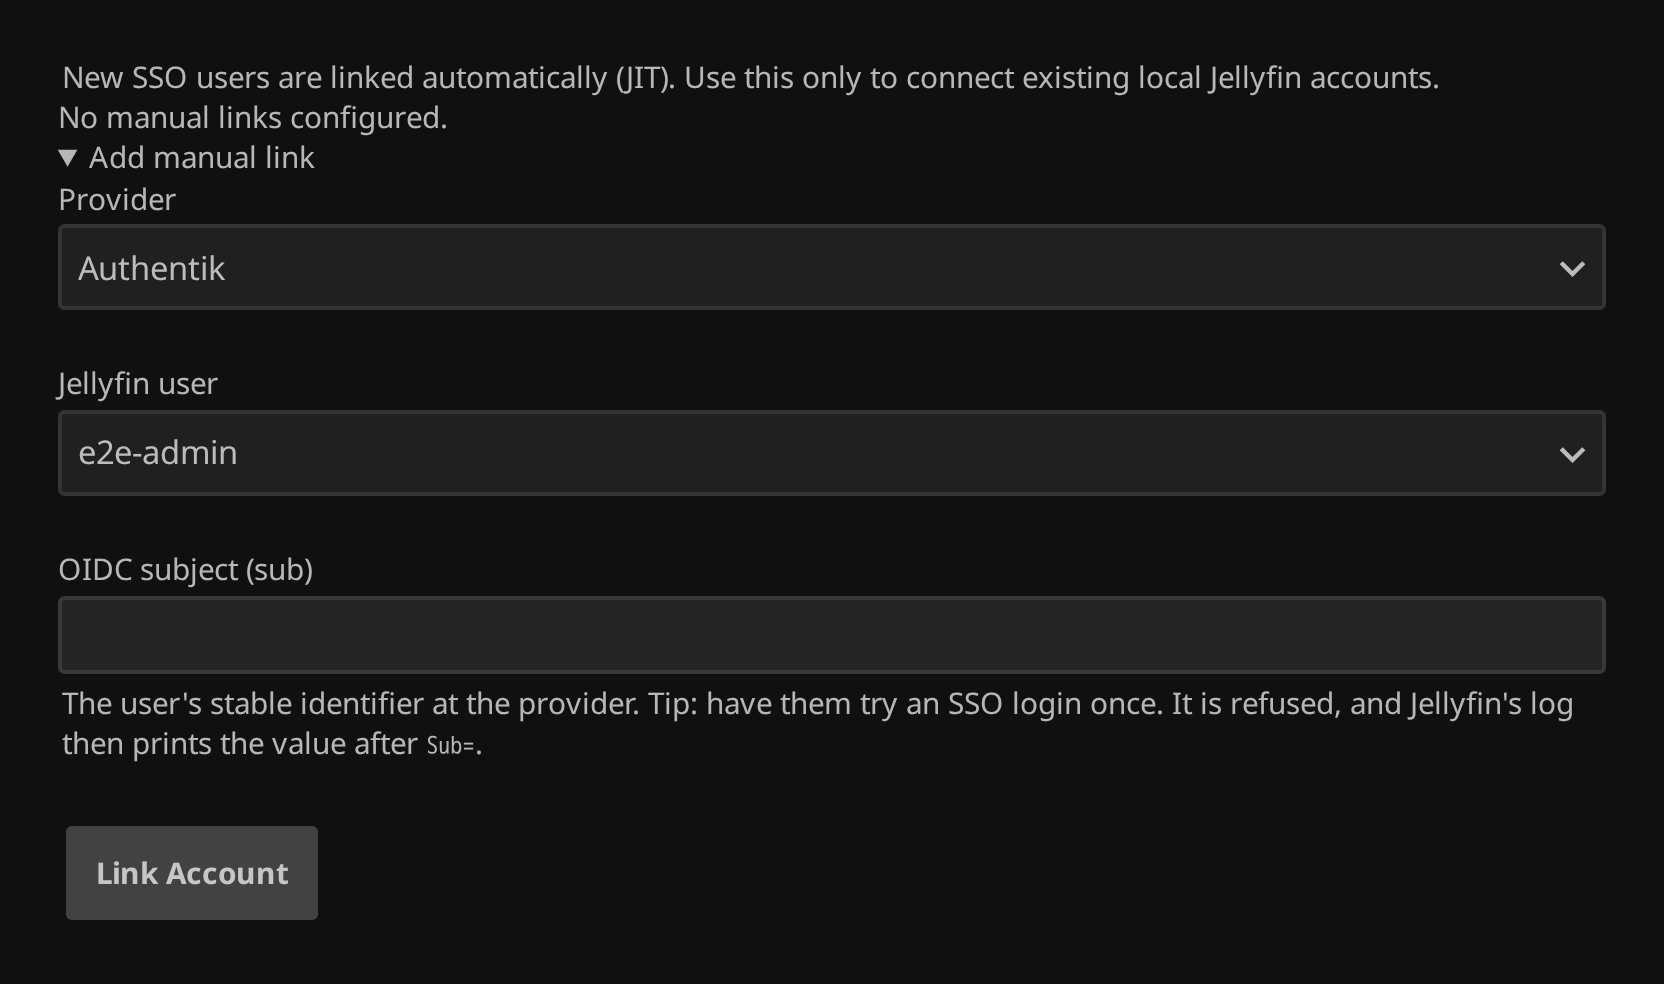
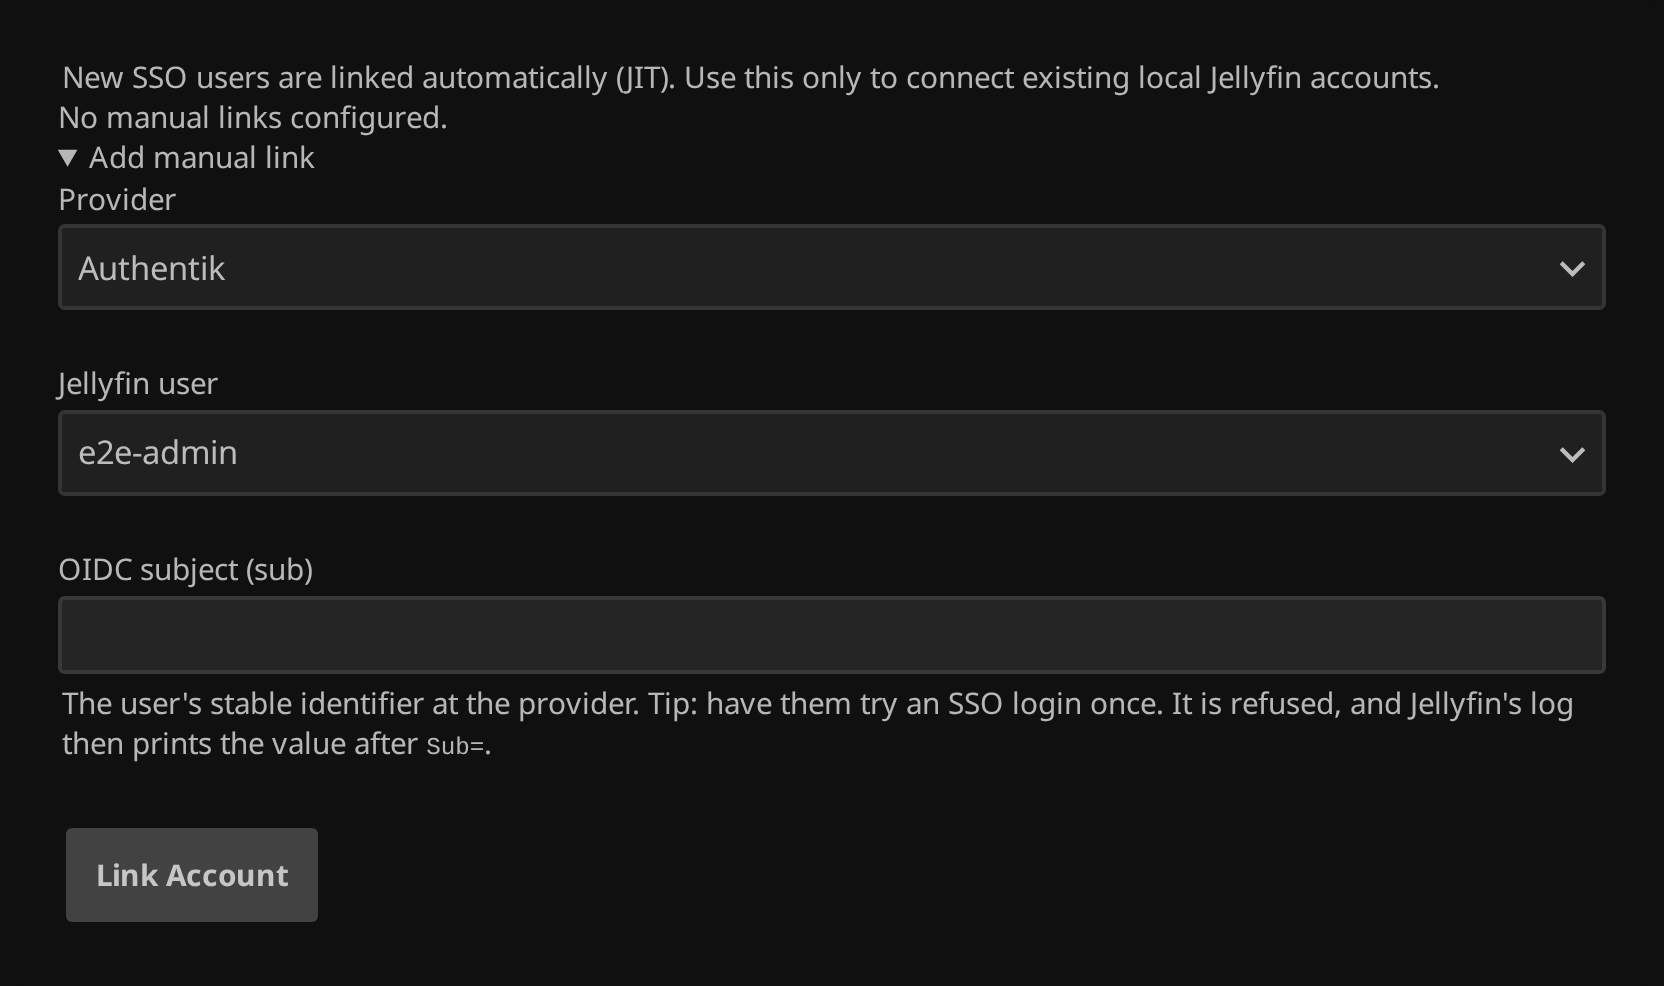
Ship the configuration page's own stylesheet, and brand the buttons
Jellyfin's dashboard loads only the page element out of configPage.html, so the
<style> block in that file's <head> never reached the DOM: the tabs rendered as
raw browser buttons and every rule the page defined for itself was missing.
Nobody noticed because the page still looked passable — Jellyfin's own classes
did the rest. The stylesheet now lives inside the page element, and a test
checks a tab's computed border, which no unstyled button has.

The login buttons now carry the provider's mark. The icons are served from the
plugin at /sso/icon/{slug} rather than from a CDN, so a login page on a LAN
without internet still renders them and no third party learns who opens it.
Authentik, Keycloak, Authelia, Google, Okta and Auth0 are recognised from the
provider's name or issuer; anything else gets the plugin's own mark.

Claude-Session: https://claude.ai/code/session_01TvEDqocov32nLFTRQJQQ6m

Changed region(s): [[0.0312, 0.7012, 0.9375, 0.7622], [0.0312, 0.5793, 0.1875, 0.6098], [0.0625, 0.4573, 0.0938, 0.4878]]

diff --git a/Jellyfin.Plugin.Sso/Configuration/configPage.html b/Jellyfin.Plugin.Sso/Configuration/configPage.html
@@ -3,6 +3,11 @@
 <head>
   <meta charset="utf-8" />
   <title>SSO Authentication</title>
+</head>
+<body>
+  <div id="SsoConfigPage" data-role="page" class="page type-interior pluginConfigurationPage"
+       data-require="emby-input,emby-button,emby-select,emby-checkbox"
+       data-controller="__plugin/SSO Authentication.js">
   <style>
     /* ── Tabs (horizontal, Media-Bar style) ── */
     .sso-title-rule { max-width: 800px; margin: 1em 0; }
@@ -67,11 +72,6 @@
     .sso-link-form { padding: .75em 0; display: flex; flex-direction: column; gap: .75em; max-width: 34em; }
     .sso-link-form-summary { cursor: pointer; }
   </style>
-</head>
-<body>
-  <div id="SsoConfigPage" data-role="page" class="page type-interior pluginConfigurationPage"
-       data-require="emby-input,emby-button,emby-select,emby-checkbox"
-       data-controller="__plugin/SSO Authentication.js">
     <div data-role="content">
       <div class="content-primary">
 

diff --git a/Jellyfin.Plugin.Sso/Web/ProviderIcons.cs b/Jellyfin.Plugin.Sso/Web/ProviderIcons.cs
@@ -1,0 +1,76 @@
+using System.Globalization;
+
+namespace Jellyfin.Plugin.Sso.Web;
+
+/// <summary>
+/// The mark that goes on a provider's login button. A plain button says "Login with
+/// Authentik" and looks like every other button; the mark is what people recognise before
+/// they read anything.
+///
+/// The paths come from Simple Icons (CC0). They are served from this plugin rather than a
+/// CDN so that a login page on a LAN with no internet still renders them, and so that the
+/// login page makes no request to anyone else.
+/// </summary>
+public static class ProviderIcons
+{
+    private readonly record struct Icon(string Colour, string Path);
+
+    /// <summary>The mark used when nothing matches: the plugin's own.</summary>
+    private static readonly Icon Fallback = new(
+        "#00A4DC",
+        "M3.2 12h7.1M3.2 7.2c2.6 0 2.3 4.8 4.9 4.8M3.2 16.8c2.6 0 2.3-4.8 4.9-4.8");
+
+    private static readonly Dictionary<string, Icon> Known = new(StringComparer.Ordinal)
+    {
+        ["authentik"] = new Icon("#FD4B2D", "M13.96 9.01h-.84V7.492h-1.234v3.663H5.722c.34.517.538.982.538 1.152 0 .46-1.445 3.059-3.197 3.059C.8 15.427-.745 12.8.372 10.855a3.062 3.062 0 0 1 2.691-1.606c1.04 0 1.971.915 2.557 1.755V6.577a3.773 3.773 0 0 1 3.77-3.769h10.84C22.31 2.808 24 4.5 24 6.577v10.845a3.773 3.773 0 0 1-3.77 3.769h-1.6V17.5h-7.64v3.692h-1.6a3.773 3.773 0 0 1-3.77-3.769v-3.41h12.114v-6.52h-1.59v.893h-.84v-.893H13.96v1.516Zm-9.956 1.845c-.662-.703-1.578-.544-2.209 0-2.105 2.054 1.338 5.553 3.302 1.447a5.395 5.395 0 0 0-1.093-1.447Z"),
+        ["keycloak"] = new Icon("#FFFFFF", "m18.742 1.182-12.493.002C4.155 4.784 2.079 8.393 0 12.002c2.071 3.612 4.162 7.214 6.252 10.816l12.49-.004 3.089-5.404h2.158v-.002H24L23.996 6.59h-2.168zM8.327 4.792h2.081l1.04 1.8-3.12 5.413 3.117 5.403-1.035 1.81H8.327a2047.566 2047.566 0 0 0-4.168-7.204C5.547 9.606 6.937 7.2 8.327 4.792Zm6.241 0 2.086.003c1.393 2.405 2.78 4.813 4.166 7.222l-4.167 7.2h-2.08c-.382-.562-1.038-1.808-1.038-1.808l3.123-5.405-3.124-5.413z"),
+        ["authelia"] = new Icon("#5C9CE6", "M10.624.191c-.324.023-.655.011-.97.073-2.883.568-5.244 2.01-7.074 4.3C1.42 6.014.624 7.652.243 9.48c-.25 1.2-.294 2.402-.191 3.627.237 2.832 1.377 5.233 3.345 7.26.332.341.775.348 1.1.055.39-.35.442-.735.124-1.149-.271-.353-.588-.671-.85-1.03-1.625-2.208-2.343-4.674-2.04-7.411.305-2.773 1.6-5.022 3.723-6.795 1.517-1.267 3.288-1.983 5.248-2.24.272-.037.552-.083.803-.186.32-.132.478-.564.4-.923-.085-.384-.355-.483-.702-.477-.194.004-.387 0-.58 0v-.02zm4.639 3.41c-.312-.008-.582.197-.722.512-.176.4-.027.854.367 1.096.123.075.256.134.385.199 1.485.737 2.619 1.834 3.319 3.342.257.554.423 1.15.636 1.726.162.441.509.656.92.579.425-.08.67-.392.668-.952-.016-.081-.035-.261-.082-.435-.535-1.97-1.579-3.616-3.21-4.847-.598-.453-1.28-.812-1.958-1.14a.782.782 0 0 0-.323-.08zm-6.939.23a.903.903 0 0 0-.492.144c-.648.388-1.325.764-1.88 1.266-2.323 2.098-3.262 4.755-2.905 7.84.55 4.74 4.6 8.021 8.9 7.904l.868-.001a.99.99 0 0 0 .109-.007c2.491-.312 4.58-1.387 6.146-3.36.488-.615.86-1.336 1.2-2.049.248-.523-.032-.982-.56-1.12-.38-.1-.72.112-.974.509-.473.737-.89 1.54-1.491 2.16-1.479 1.52-3.322 2.28-5.466 2.199-2.405-.091-4.337-1.127-5.758-3.056-1.088-1.475-1.49-3.168-1.32-4.984.184-1.987 1.038-3.644 2.57-4.927.423-.354.908-.633 1.365-.946.458-.314.568-.715.314-1.15-.153-.262-.371-.413-.626-.422zm3.417 2.167C8.724 6.056 6.02 8.625 6 12 5.98 15.29 8.712 18.017 12 18.02c3.339.005 6.078-2.618 6.062-6.025C18.048 8.45 15.192 5.911 12.034 6a5.726 5.726 0 0 0-.293-.002zm10.752 1.164a.91.91 0 0 0-.137.002c-.404.033-.642.295-.74.646-.053.187-.01.432.064.62a9.546 9.546 0 0 1 .648 3.753 9.994 9.994 0 0 1-1.32 4.76c-1.617 2.84-4.04 4.53-7.243 5.12-.343.063-.694.095-1.033.174-.434.103-.688.473-.641.882.044.38.34.646.769.684.132.012.265.002.398.002l-.001-.003c.145 0 .29.005.434-.002.084-.004.167-.028.25-.04 1.847-.282 3.518-.99 5.037-2.068 1.708-1.213 3.001-2.78 3.897-4.665 1.1-2.317 1.375-4.752.906-7.264-.13-.694-.354-1.376-.584-2.046-.125-.362-.389-.537-.704-.555zm-10.449.862c.13 0 .261.016.392.05.708.18 1.16.787 1.158 1.553.027.504-.211.888-.588 1.183-.207.163-.236.32-.176.558.264 1.052.52 2.107.763 3.164.13.568-.019.872-.522 1.174-.675.404-1.666.354-2.29-.13-.315-.244-.427-.573-.331-.966.252-1.031.494-2.064.762-3.09.086-.33.041-.554-.225-.794-.581-.523-.682-1.253-.317-1.903a1.57 1.57 0 0 1 1.374-.8z"),
+        ["google"] = new Icon("#FFFFFF", "M12.48 10.92v3.28h7.84c-.24 1.84-.853 3.187-1.787 4.133-1.147 1.147-2.933 2.4-6.053 2.4-4.827 0-8.6-3.893-8.6-8.72s3.773-8.72 8.6-8.72c2.6 0 4.507 1.027 5.907 2.347l2.307-2.307C18.747 1.44 16.133 0 12.48 0 5.867 0 .307 5.387.307 12s5.56 12 12.173 12c3.573 0 6.267-1.173 8.373-3.36 2.16-2.16 2.84-5.213 2.84-7.667 0-.76-.053-1.467-.173-2.053H12.48z"),
+        ["okta"] = new Icon("#FFFFFF", "M12 0C5.389 0 0 5.35 0 12s5.35 12 12 12 12-5.35 12-12S18.611 0 12 0zm0 18c-3.325 0-6-2.675-6-6s2.675-6 6-6 6 2.675 6 6-2.675 6-6 6z"),
+        ["auth0"] = new Icon("#FFFFFF", "M21.98 7.448L19.62 0H4.347L2.02 7.448c-1.352 4.312.03 9.206 3.815 12.015L12.007 24l6.157-4.552c3.755-2.81 5.182-7.688 3.815-12.015l-6.16 4.58 2.343 7.45-6.157-4.597-6.158 4.58 2.358-7.433-6.188-4.55 7.63-.045L12.008 0l2.356 7.404 7.615.044z"),
+    };
+
+    /// <summary>
+    /// Which mark a provider gets, from its display name and issuer. Nothing is
+    /// configured: a provider called "Authentik", or one issuing from auth.example.com
+    /// behind Authentik, is recognised either way.
+    /// </summary>
+    public static string SlugFor(string? name, string? authority)
+    {
+        var haystack = ((name ?? string.Empty) + " " + (authority ?? string.Empty)).ToLowerInvariant();
+
+        if (haystack.Contains("authentik", StringComparison.Ordinal)) return "authentik";
+        if (haystack.Contains("keycloak", StringComparison.Ordinal)) return "keycloak";
+        if (haystack.Contains("authelia", StringComparison.Ordinal)) return "authelia";
+        if (haystack.Contains("okta", StringComparison.Ordinal)) return "okta";
+        if (haystack.Contains("auth0", StringComparison.Ordinal)) return "auth0";
+        if (haystack.Contains("google", StringComparison.Ordinal)
+            || haystack.Contains("accounts.google.com", StringComparison.Ordinal)) return "google";
+
+        return "generic";
+    }
+
+    /// <summary>The icon as an SVG document, ready to serve.</summary>
+    public static string Svg(string slug)
+    {
+        if (!Known.TryGetValue(slug, out var icon))
+        {
+            return string.Format(
+                CultureInfo.InvariantCulture,
+                "<svg xmlns=\"http://www.w3.org/2000/svg\" viewBox=\"0 0 24 24\" width=\"24\" height=\"24\">"
+                + "<g fill=\"none\" stroke=\"0\" stroke-width=\"2\" stroke-linecap=\"round\">"
+                + "<path d=\"1\"/></g>"
+                + "<circle cx=\"15.8\" cy=\"12\" r=\"4.2\" fill=\"none\" stroke=\"0\" stroke-width=\"2\"/>"
+                + "<circle cx=\"15.8\" cy=\"12\" r=\"1.3\" fill=\"0\"/></svg>",
+                Fallback.Colour,
+                Fallback.Path);
+        }
+
+        return string.Format(
+            CultureInfo.InvariantCulture,
+            "<svg xmlns=\"http://www.w3.org/2000/svg\" viewBox=\"0 0 24 24\" width=\"24\" height=\"24\">"
+            + "<path fill=\"0\" d=\"1\"/></svg>",
+            icon.Colour,
+            icon.Path);
+    }
+}

diff --git a/tests/Jellyfin.Plugin.Sso.E2eTests/ConfigPageTests.cs b/tests/Jellyfin.Plugin.Sso.E2eTests/ConfigPageTests.cs
@@ -193,6 +193,30 @@ public sealed class ConfigPageTests : IAsyncLifetime
     }
 
     /// <summary>
+    /// Jellyfin's dashboard loads only the page element out of configPage.html, so a
+    /// stylesheet in that file's &lt;head&gt; never reaches the DOM and the page renders
+    /// with raw browser widgets. This catches that the day it happens again.
+    /// </summary>
+    [Fact]
+    public async Task The_pages_own_stylesheet_reaches_the_dashboard()
+    {
+        var page = await OpenConfigPageAsync();
+
+        var applied = await page.EvaluateAsync<bool>(
+            """
+            () => {
+              const tab = document.querySelector('.sso-tab');
+              if (!tab) return false;
+              // The stylesheet gives every tab a 2px bottom border; the browser default
+              // for a <button> has none.
+              return getComputedStyle(tab).borderBottomWidth === '2px';
+            }
+            """);
+
+        Assert.True(applied, "configPage.html's stylesheet did not reach the rendered page.");
+    }
+
+    /// <summary>
     /// Opens the plugin's page inside the dashboard with a seeded admin session, and fails
     /// with the page's own console output if the page never initialises.
     /// </summary>

diff --git a/Jellyfin.Plugin.Sso/Controllers/SsoController.cs b/Jellyfin.Plugin.Sso/Controllers/SsoController.cs
@@ -1,6 +1,7 @@
 using Duende.IdentityModel.Client;
 using Jellyfin.Plugin.Sso.Auth;
 using Jellyfin.Plugin.Sso.Configuration;
+using Jellyfin.Plugin.Sso.Web;
 using Jellyfin.Plugin.Sso.Oidc;
 using Jellyfin.Plugin.Sso.Provisioning;
 using MediaBrowser.Controller.QuickConnect;
@@ -52,6 +53,19 @@ public sealed class SsoController : ControllerBase
     /// Stable entry point. With one enabled provider it goes straight there; with several
     /// it asks which one. The URL never changes, so the login button can be static.
     /// </summary>
+    /// <summary>
+    /// The mark on a provider's login button. Served from here rather than from a CDN so
+    /// that a login page on a LAN without internet still renders it, and so that nobody
+    /// outside learns who visits the login page.
+    /// </summary>
+    [HttpGet("icon/{slug}")]
+    [AllowAnonymous]
+    public IActionResult Icon(string slug)
+    {
+        Response.Headers.CacheControl = "public, max-age=86400";
+        return Content(ProviderIcons.Svg(slug), "image/svg+xml");
+    }
+
     [HttpGet("oidc/start")]
     [AllowAnonymous]
     public async Task<IActionResult> StartDefault(CancellationToken ct)

diff --git a/tests/Jellyfin.Plugin.Sso.E2eTests/ScreenshotTests.cs b/tests/Jellyfin.Plugin.Sso.E2eTests/ScreenshotTests.cs
@@ -66,6 +66,10 @@ public sealed class ScreenshotTests : IAsyncLifetime
 
         var page = await OpenConfigPageAsync();
 
+        // The whole page, into tests/runs: not documentation, but the artifact that shows
+        // whether the page's own stylesheet survived Jellyfin's loader.
+        await BrowserSupport.CaptureAsync(page, "config-page");
+
         // The provider card, with the redirect URI the quick start tells people to copy.
         await page.ClickAsync(".sso-tab[data-tab=\"provider\"]");
         await ShootAsync(page, ".sso-provider", Path.Combine(directory, "provider-card.png"));

diff --git a/Jellyfin.Plugin.Sso/Web/LoginButtonMarkup.cs b/Jellyfin.Plugin.Sso/Web/LoginButtonMarkup.cs
@@ -46,7 +46,11 @@ public static class LoginButtonMarkup
                 .Append(prefix)
                 .Append("/sso/oidc/start/")
                 .Append(WebUtility.UrlEncode(provider.Id))
-                .Append("\">")
+                .Append("\"><img src=\"")
+                .Append(prefix)
+                .Append("/sso/icon/")
+                .Append(ProviderIcons.SlugFor(provider.Name, provider.Authority))
+                .Append("\" alt=\"\" width=\"20\" height=\"20\"/>&nbsp;")
                 .Append(WebUtility.HtmlEncode(label))
                 .Append("</a>");
         }
